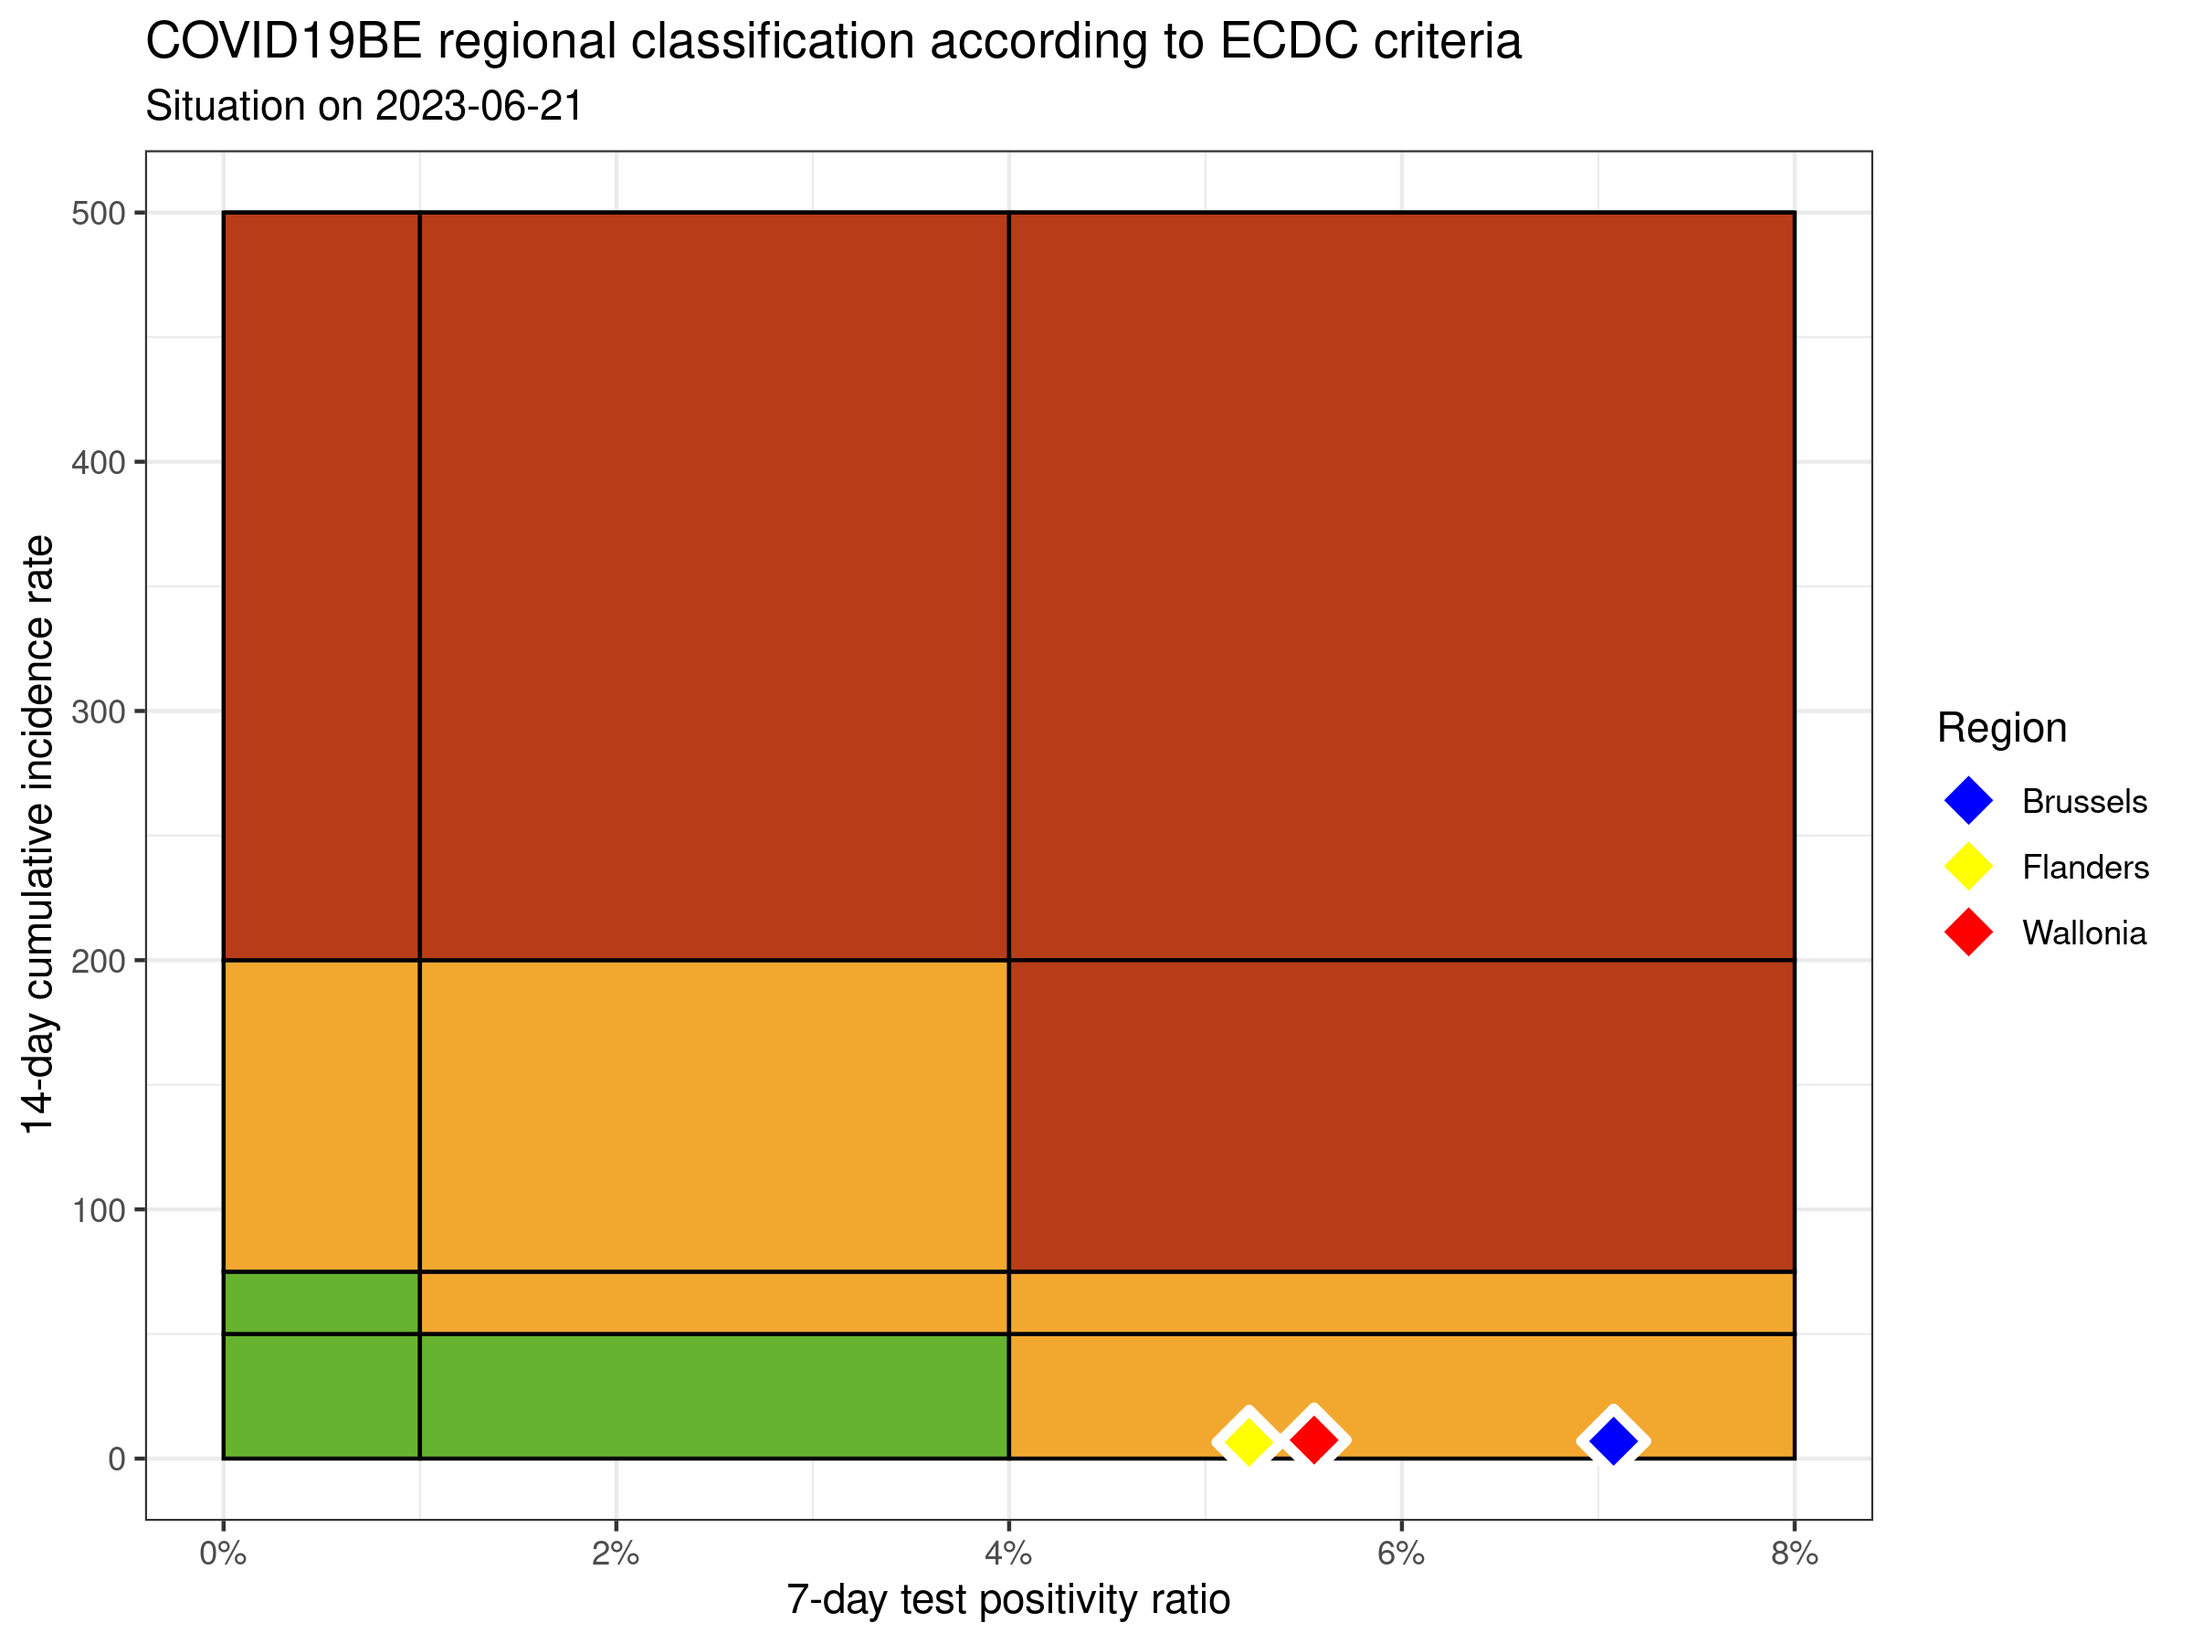
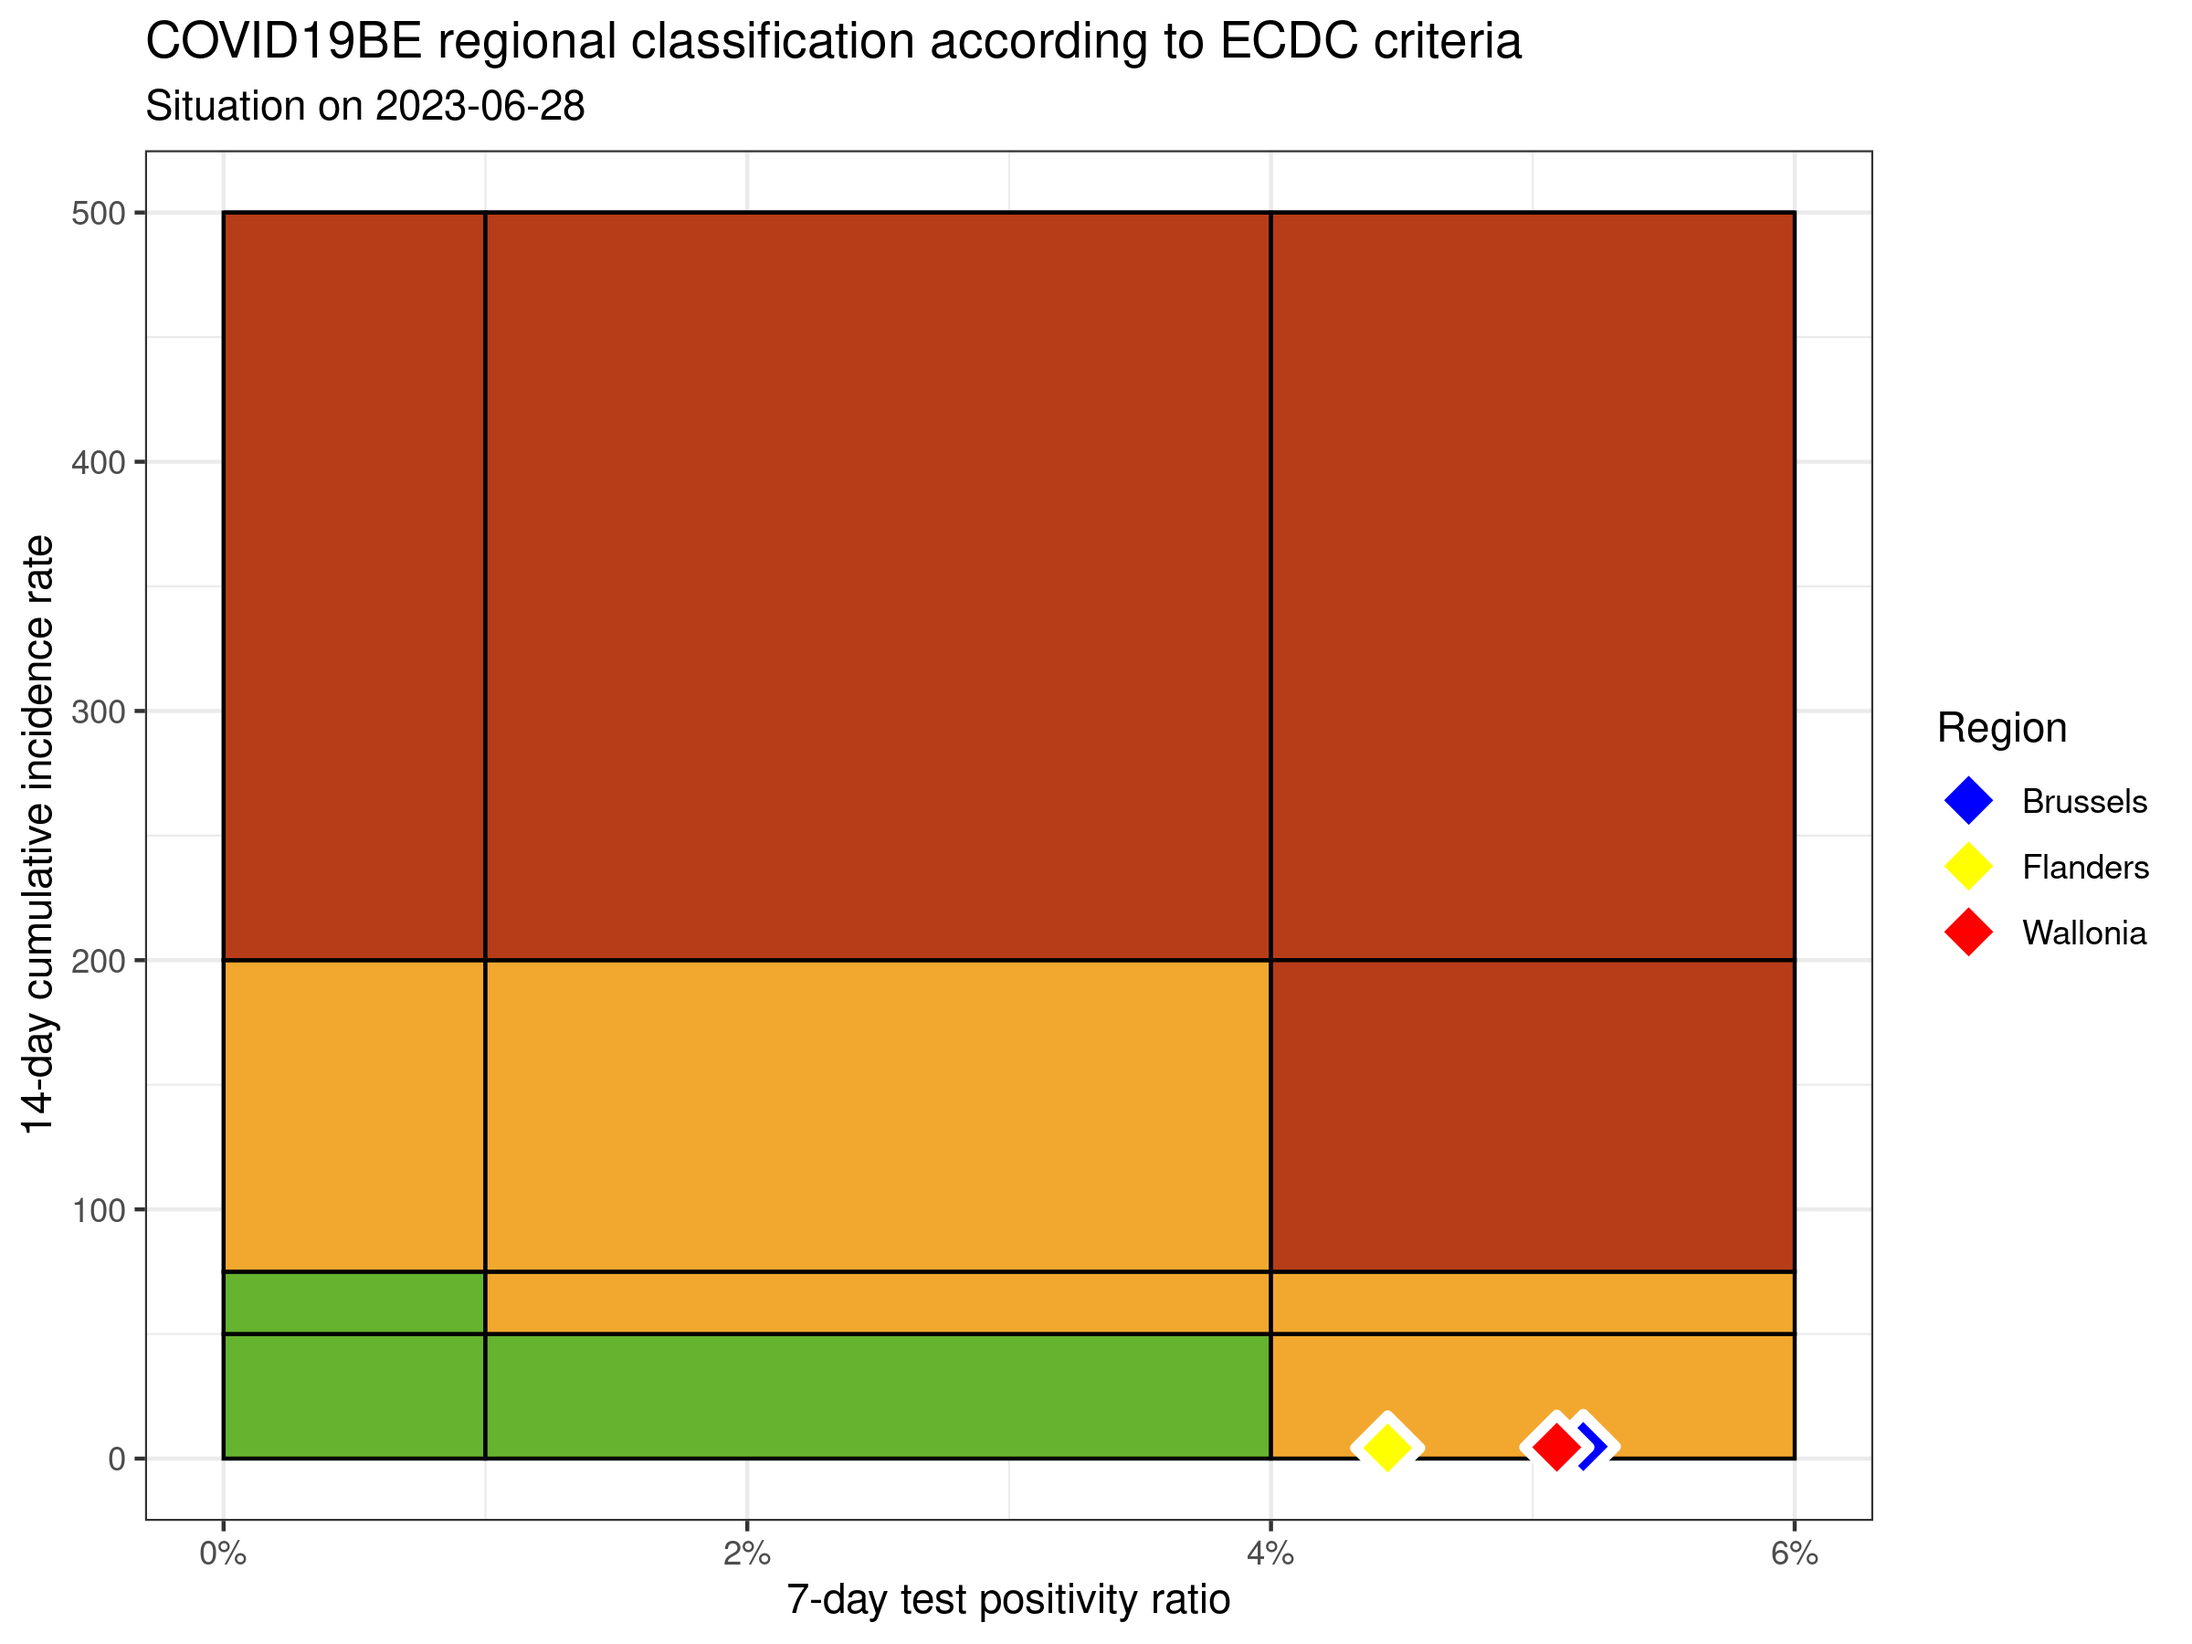
update situation

diff --git a/ecdc-trend/README.md b/ecdc-trend/README.md
@@ -11,9 +11,9 @@
 
 |          | INC14 | INC7 | TST7 | TST\_POS7 | REGION   |     POP | INC14\_RT |       PR7 |          GR |
 | :------- | ----: | ---: | ---: | --------: | :------- | ------: | --------: | --------: | ----------: |
-| Brussels |    85 |   33 |  664 |        47 | Brussels | 1219970 |  6.967384 | 0.0707831 | \-0.3653846 |
-| Flanders |   434 |  166 | 4328 |       226 | Flanders | 6653062 |  6.523312 | 0.0522181 | \-0.3805970 |
-| Wallonia |   271 |   95 | 2125 |       118 | Wallonia | 3648206 |  7.428309 | 0.0555294 | \-0.4602273 |
+| Brussels |    59 |   26 |  597 |        31 | Brussels | 1219970 |  4.836184 | 0.0519263 | \-0.2121212 |
+| Flanders |   284 |  118 | 3554 |       158 | Flanders | 6653062 |  4.268711 | 0.0444569 | \-0.2891566 |
+| Wallonia |   166 |   70 | 1748 |        89 | Wallonia | 3648206 |  4.550182 | 0.0509153 | \-0.2708333 |
 
 ### Read more
 
